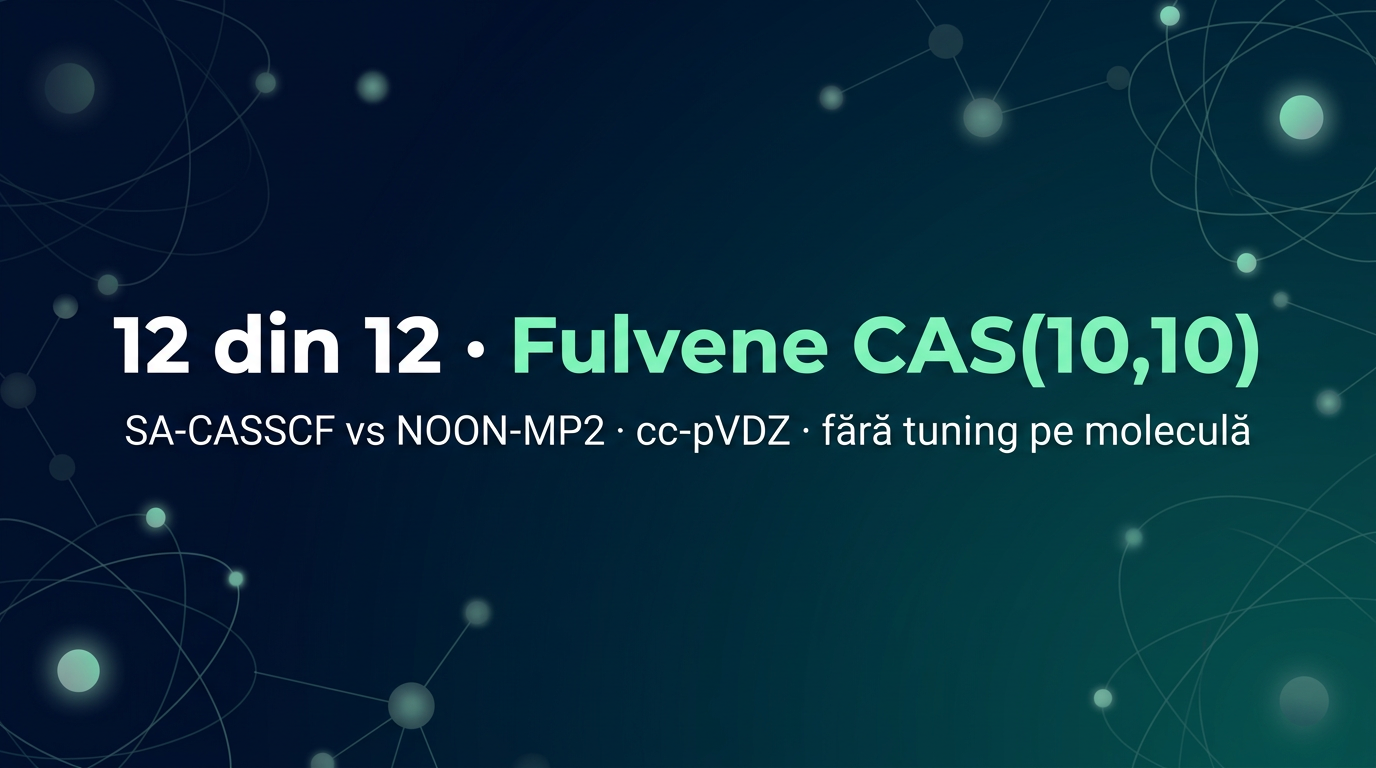
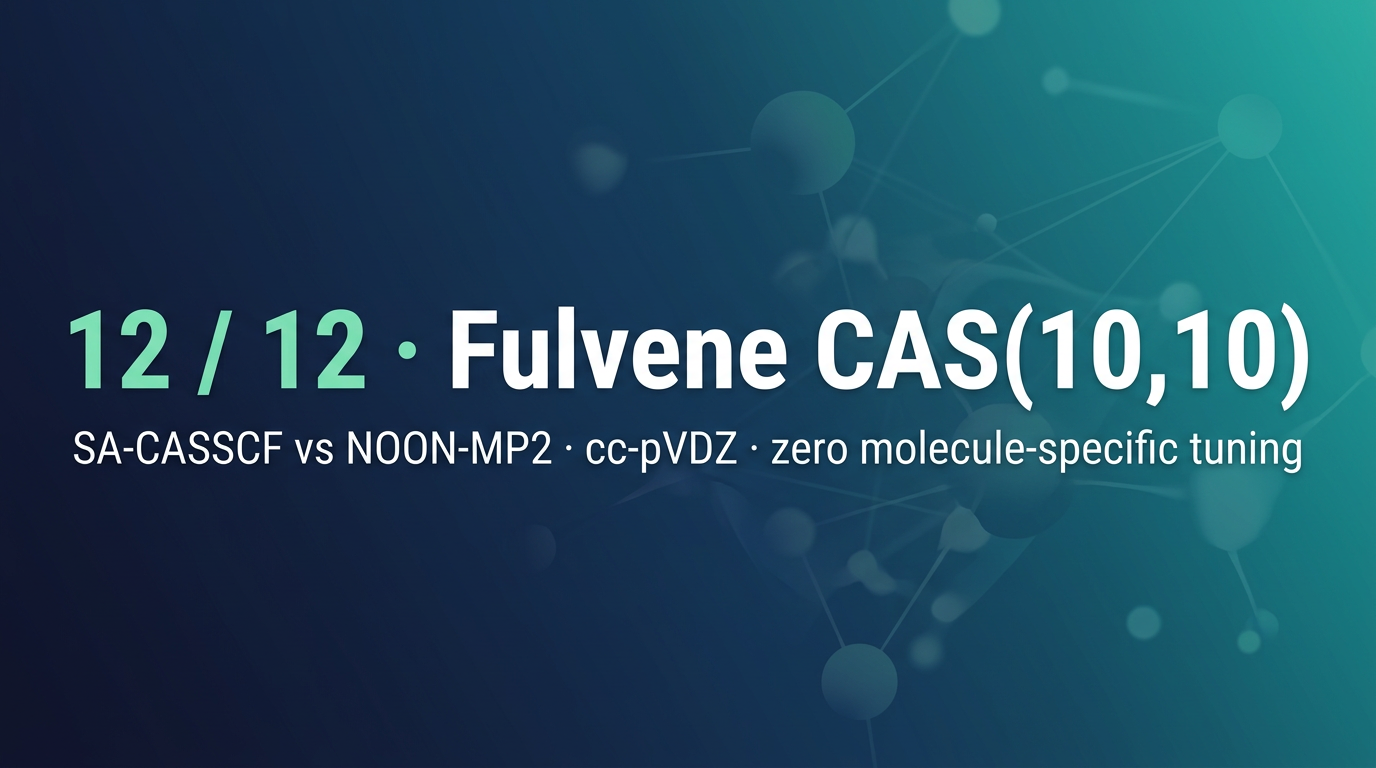
content: LinkedIn article + hero image in English (replace RO)

diff --git a/zenodo_publish/photochem_multigeom/LINKEDIN_ARTICLE_PHOTOCHEM.md b/zenodo_publish/photochem_multigeom/LINKEDIN_ARTICLE_PHOTOCHEM.md
@@ -1,0 +1,70 @@
+# LinkedIn — article / long post (copy-paste, English)
+
+Use as a **LinkedIn Article** or split into 2–3 consecutive posts. Tone: professional, evidence-led, no empty hype.
+
+---
+
+## Headline options (“hook” — pick one)
+
+1. **12 out of 12. No exceptions. A photochemical benchmark where active-space selection beats NOON-MP2 at every geometry.**
+
+2. **Fulvene CAS(10,10): not one lucky mask — a cluster of solutions that outperform the MP2 baseline across the full torsion scan.**
+
+3. **When the heuristic stays strong but stops being the ceiling: multi-geometry SA-CASSCF with inZOR-ND vs NOON-MP2.**
+
+*Suggestion:* use **1** for broad feed impact; **2** for a technical audience.
+
+---
+
+## Subhead (optional, first line under the headline)
+
+Three molecules. 52 geometries. 100% convergence. Main result: fulvene CAS(10,10), cc-pVDZ — mean advantage ~5.2 kcal/mol vs NOON-MP2 across all 12 torsion angles tested.
+
+---
+
+## Body (LinkedIn Article)
+
+In computational quantum chemistry, choosing the active space for CASSCF is still one of the decisions that separates a calculation that converges from one that merely *looks* convergent while misrepresenting the physics.
+
+Many workflows use **NOON-MP2** — natural orbital occupation numbers from MP2 — as the default starting point. It is fast, interpretable, and often solid.
+
+This study asks a question that matters for **photochemistry**: can you find **one shared** active space that remains sensible across an **entire torsion scan** — including regions near conical intersections and strong quasi-degeneracy where single-reference rules break?
+
+We compared **inZOR-ND** (bio-adaptive discrete search) to **NOON-MP2** using the same evaluation protocol (**SA-CASSCF**, two states, **cc-pVDZ**, Procrustes MO alignment), with **no molecule-specific tuning** of the search engine.
+
+The **main result** is unambiguous: for **fulvene CAS(10,10)** at **12** torsion angles, the inZOR-ND selected spaces yield **lower mean SA-CASSCF energy than NOON-MP2 at every geometry** — **12/12**. The mean advantage is on the order of **5.2 kcal/mol**. This is not a single “magic” mask: we report a **cluster of nearly degenerate winning masks** (five equivalent solutions) that deliver the same outcome across the grid.
+
+This does not “invalidate” NOON — it positions it fairly: **NOON-MP2 remains a strong heuristic baseline**, but **in this benchmark set** it is no longer the empirical upper bound for SA-CASSCF energy.
+
+Beyond fulvene, the study includes comparative context for **ethylene**, **1,3-butadiene**, and fulvene at **CAS(6,6)** and **CAS(8,8)** — including a large mean advantage for CAS(8,8) on a diagnostic angle subset. Tables and figures are public.
+
+If you work on non-adiabatic dynamics, torsion scans, or automating CASSCF workflows, the practical message is simple: **treat active-space selection as an optimization problem**, not only as a fixed rulebook.
+
+**Results (HTML):**  
+https://dumitrunovic-svg.github.io/inZOR-ND/tests/photochem_multi_geom_active_space/index.html
+
+**PDF (repository path):**  
+`zenodo_publish/photochem_multigeom/inZOR-ND_Photochem_MultiGeom_ActiveSpace_Zenodo.pdf`
+
+---
+
+## Short post variants (if you do not use Article mode)
+
+**Post A — hook + link**  
+12/12 is not marketing — it is the fulvene CAS(10,10) outcome: inZOR-ND vs NOON-MP2 on the full torsion scan under one SA-CASSCF protocol. NOON stays a strong baseline; here, search systematically finds lower energies. Details and figures → [link].
+
+**Post B — for QC engineers**  
+If NOON is still your “good enough default” for active spaces on photochemical PECs: we published a multi-geometry benchmark (ethylene, butadiene, fulvene) where discrete optimization is worth a serious look. Hardest datapoint — fulvene CAS(10,10): 12/12 angles, cluster of solutions. [link]
+
+---
+
+## Hashtags (pick 5–8)
+
+`#QuantumChemistry` `#ComputationalChemistry` `#CASSCF` `#Photochemistry` `#ActiveSpace` `#PySCF` `#Research` `#OpenScience`
+
+---
+
+## Hero image (LinkedIn)
+
+File: `zenodo_publish/photochem_multigeom/linkedin_photochem_hero.png`  
+English headline on image. For **link preview** cards LinkedIn often prefers ~1200×627 — crop or resize if needed.